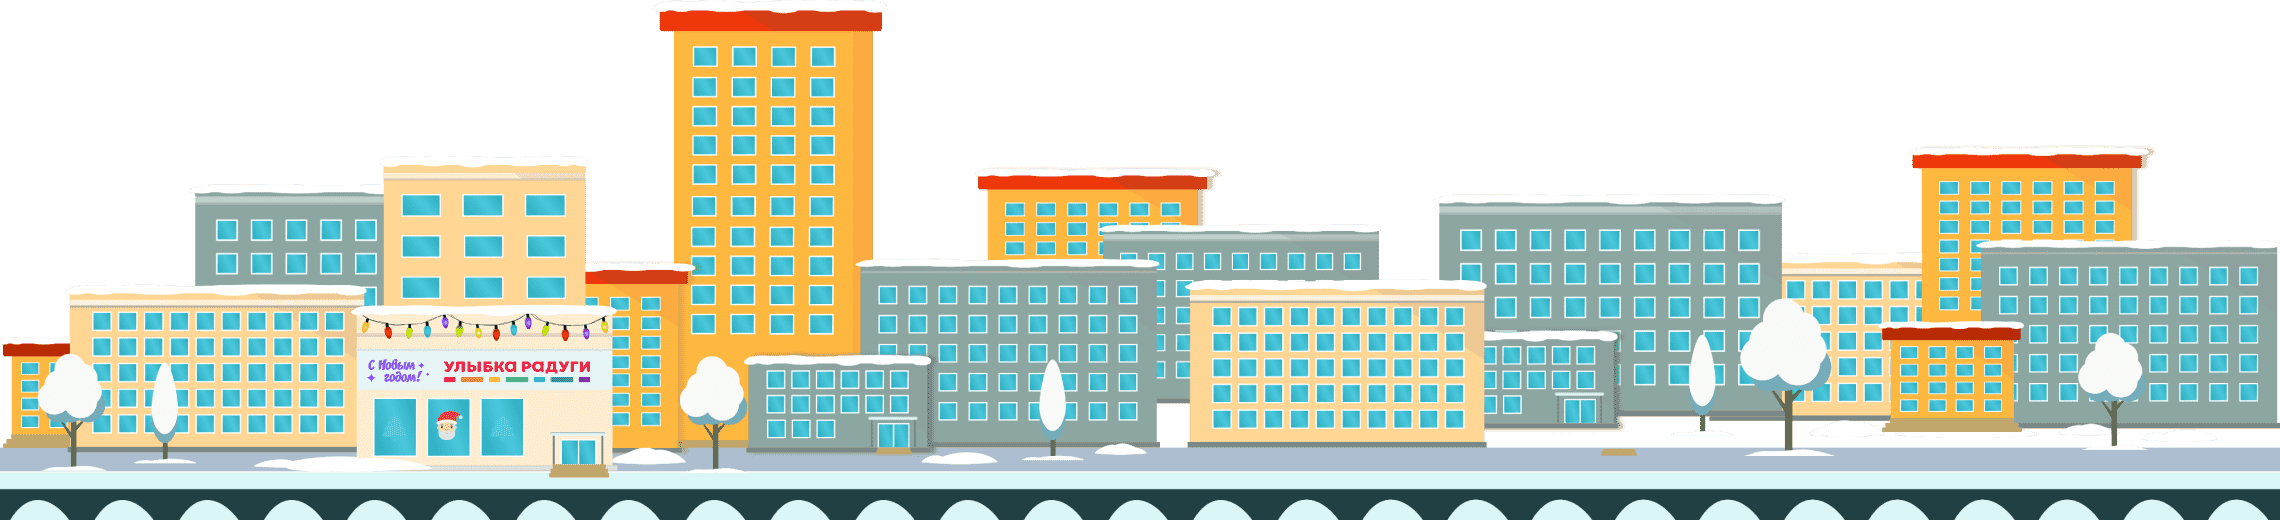
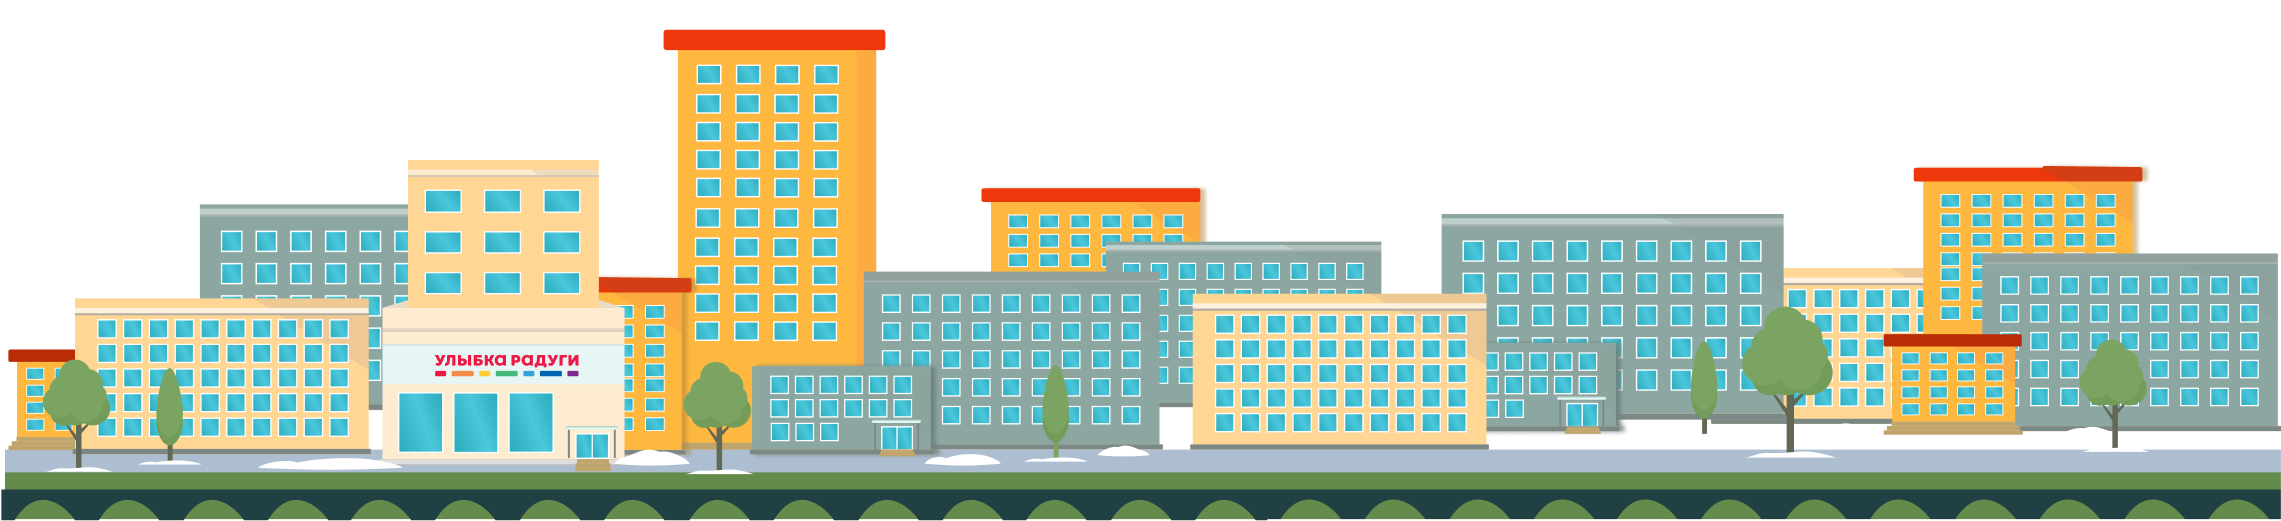
new version 2023

diff --git a/js/main.js b/js/main.js
@@ -22,16 +22,17 @@ Crafty.defineScene("loading", function() {
 	//***Sprites***
 	Crafty.sprite("./images/city.png", {city:[0,0,2280,520]});
 	Crafty.sprite("./images/city-back.png", {cityBack:[0,0,1140,242]});
-	Crafty.sprite("./images/moon.png", {moon:[0,0,132,132]});
+	Crafty.sprite("./images/city-bg.png", {cityBack:[0,0,1280,272]});
+	Crafty.sprite("./images/moon.png", {moon:[0,0,197,205]});
 	Crafty.sprite("./images/cloud1.png", {cloud1:[0,0,228,84]});
 	Crafty.sprite("./images/cloud2.png", {cloud2:[0,0,172,47]});
 	Crafty.sprite("./images/cloud3.png", {cloud3:[0,0,198,86]});
 	Crafty.sprite("./images/snow.png", {snow:[0,0,1036,537]});
 	Crafty.sprite(138, 78, "./images/planes.png", {planes:[0,0]});
 	Crafty.sprite("./images/btn.png", {btn:[0,0,160,160]});
-	Crafty.sprite("./images/big.png", {big:[0,0,86,565]});
-	Crafty.sprite("./images/middle.png", {middle:[0,0,86,460]});
-	Crafty.sprite("./images/small.png", {small:[0,0,86,340]});
+	Crafty.sprite("./images/big.png", {big:[0,0,110,565]});
+	Crafty.sprite("./images/middle.png", {middle:[0,0,110,460]});
+	Crafty.sprite("./images/small.png", {small:[0,0,110,340]});
 	Crafty.sprite(133, 64, "./images/sales.png", {sales:[0,0]});
 	Crafty.sprite("./images/ui-sale.png", {uisale:[0,0,19,21]});
 
@@ -139,7 +140,7 @@ Crafty.defineScene("mainScene", function() {
 			gameOver = true;
 			stampDelay.cancelDelay(createStamp);
 			town.css({'animation-play-state': 'paused'});
-			townBack.css({'animation-play-state': 'paused'});
+			//townBack.css({'animation-play-state': 'paused'});
 			dataUpdate();		
 		}
 	}
@@ -221,14 +222,14 @@ Crafty.defineScene("mainScene", function() {
 			this.addComponent("2D, DOM");
 			//this.w = 1140;
 			this.w = mainContainer.w;
-			this.h = 260;
+			this.h = 136;
 			this.x = mainContainer.x;
 			this.y = mainContainer.y + (mainContainer.h - this.h);
 			this.z = 10;
 			this.css({
-				'background': 'url("./images/city.png") repeat-x',
-				'background-size': '1140px 260px',
-				'backround-position': '0% 1140px',
+				'background': 'url("./images/city-bg.png") repeat-x',
+				'background-size': '640px 136px',
+				'backround-position': '0% 640px',
 				'animation': 'townScroll linear 12s infinite'
 			});
 		}	
@@ -322,11 +323,10 @@ Crafty.defineScene("mainScene", function() {
 				this.h = 170;
 				break;					
 			}
-			this.w = 43;
+			this.w = 55;
 			this.x = mainContainer.w;
-			this.y = mainContainer.y + (mainContainer.h - this.h - 14);
+			this.y = mainContainer.y + (mainContainer.h - this.h - 13);
 			this.z = 15;
-			this.collision(16,0,27,0,27,6,31,6,31,40,26,39,26,245,18,245,18,39,12,40,12,6,16,6);
 		},
 		events: {
 			"UpdateFrame": function() {
@@ -434,16 +434,16 @@ Crafty.defineScene("mainScene", function() {
 
 	var mainContainer = Crafty.e("2D, DOM")
 	.attr({w: sceenWidth, h: 420, x: 0})
-	.css({'background': '#87D8D9', 'overflow': 'hidden'});
+	.css({'background': '#71C5CF', 'overflow': 'hidden'});
 	mainContainer.y = screenHeight/2 - mainContainer.h/2;
 
 	//***_background objects_***
-	var townBack = Crafty.e("cityShadow");
+	//var townBack = Crafty.e("cityShadow");
 	var town = Crafty.e("town");
 
 
 	var moon = Crafty.e("2D, DOM, moon")
-	.attr({ y: mainContainer.y + 50, x: mainContainer.x + 150, w: 40, h: 40 });	
+	.attr({ y: mainContainer.y + 50, x: mainContainer.x + 200, w: 70, h: 70 });	
 
 	var cloud1 = Crafty.e("2D, DOM, cloud1")
 	.attr({ y: mainContainer.y + 17, x: mainContainer.x + 16, w: 65, h: 24 });
@@ -454,7 +454,7 @@ Crafty.defineScene("mainScene", function() {
 	var cloud3 = Crafty.e("2D, DOM, cloud3")
 	.attr({ y: mainContainer.y + 14, x: mainContainer.w - 65, w: 58, h: 25 });
 
-	Crafty.e("Snow");
+	//Crafty.e("Snow");
 
 	Crafty.e("floor");
 	Crafty.e("ceiling");

diff --git a/css/style.css b/css/style.css
@@ -3843,7 +3843,7 @@ body {
     background-position-x: 0;
   }
   to {
-    background-position-x: -1140px;
+    background-position-x: -640px;
   }
 }
 
@@ -3852,7 +3852,7 @@ body {
     background-position-x: 0;
   }
   to {
-    background-position-x: -1140px;
+    background-position-x: -640px;
   }
 }
 @-webkit-keyframes townBackScroll {
